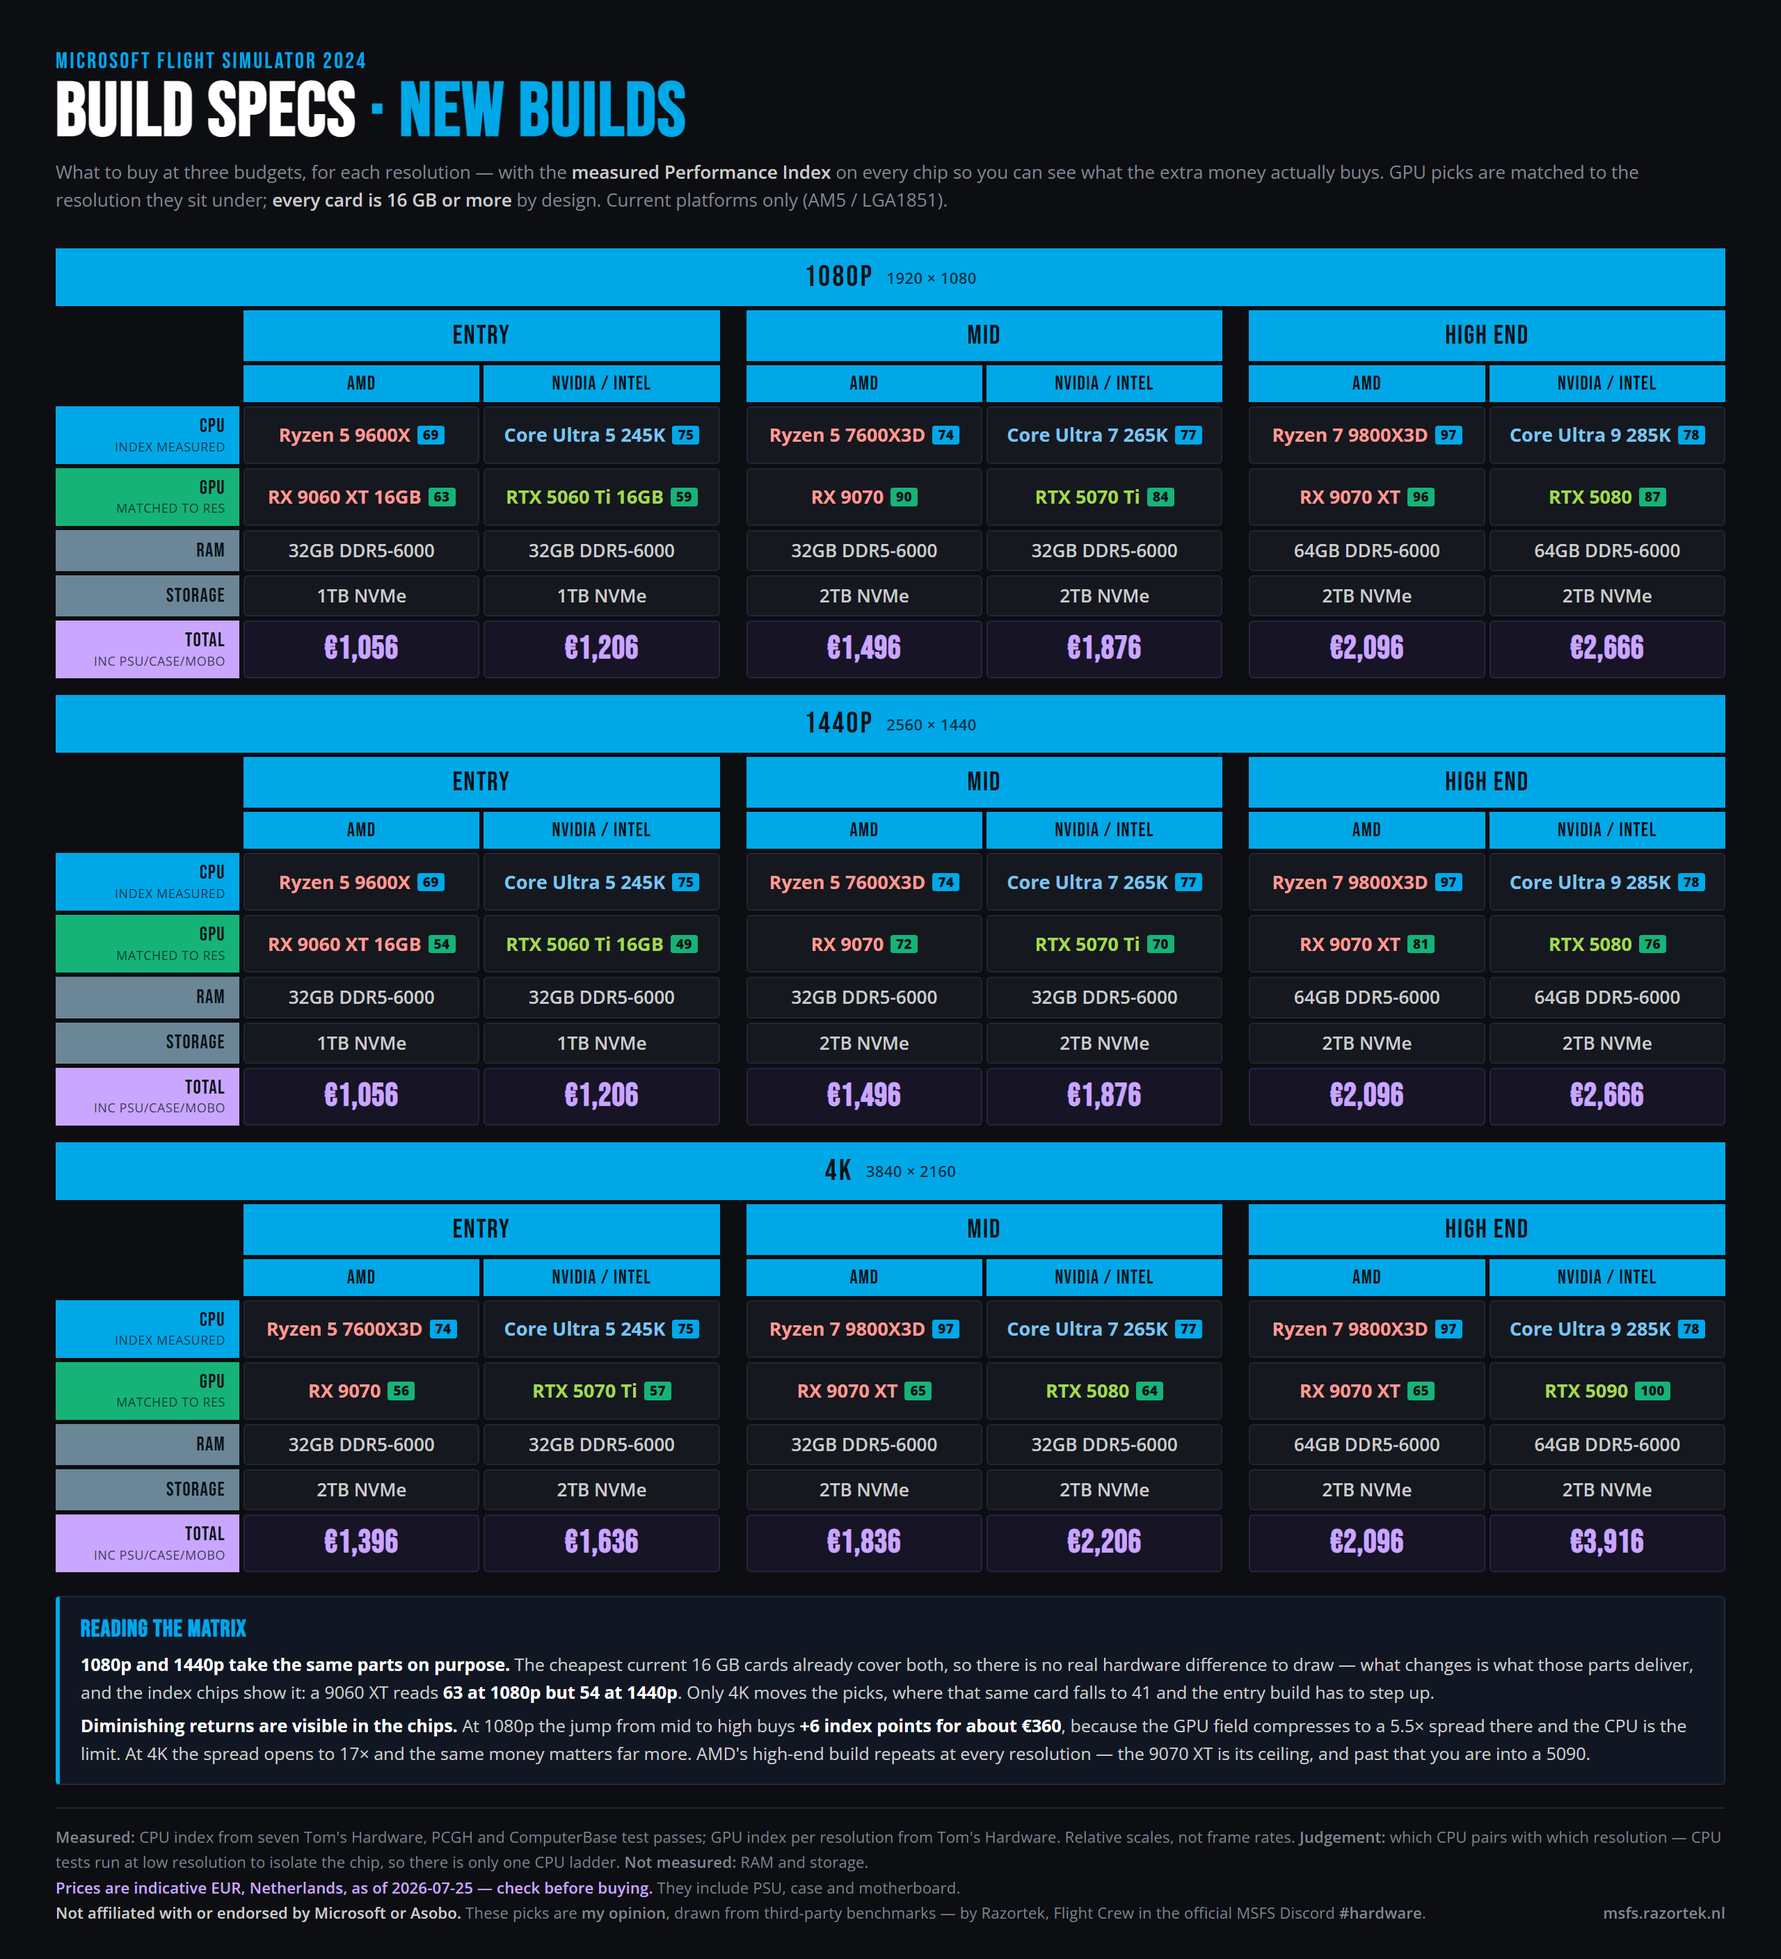
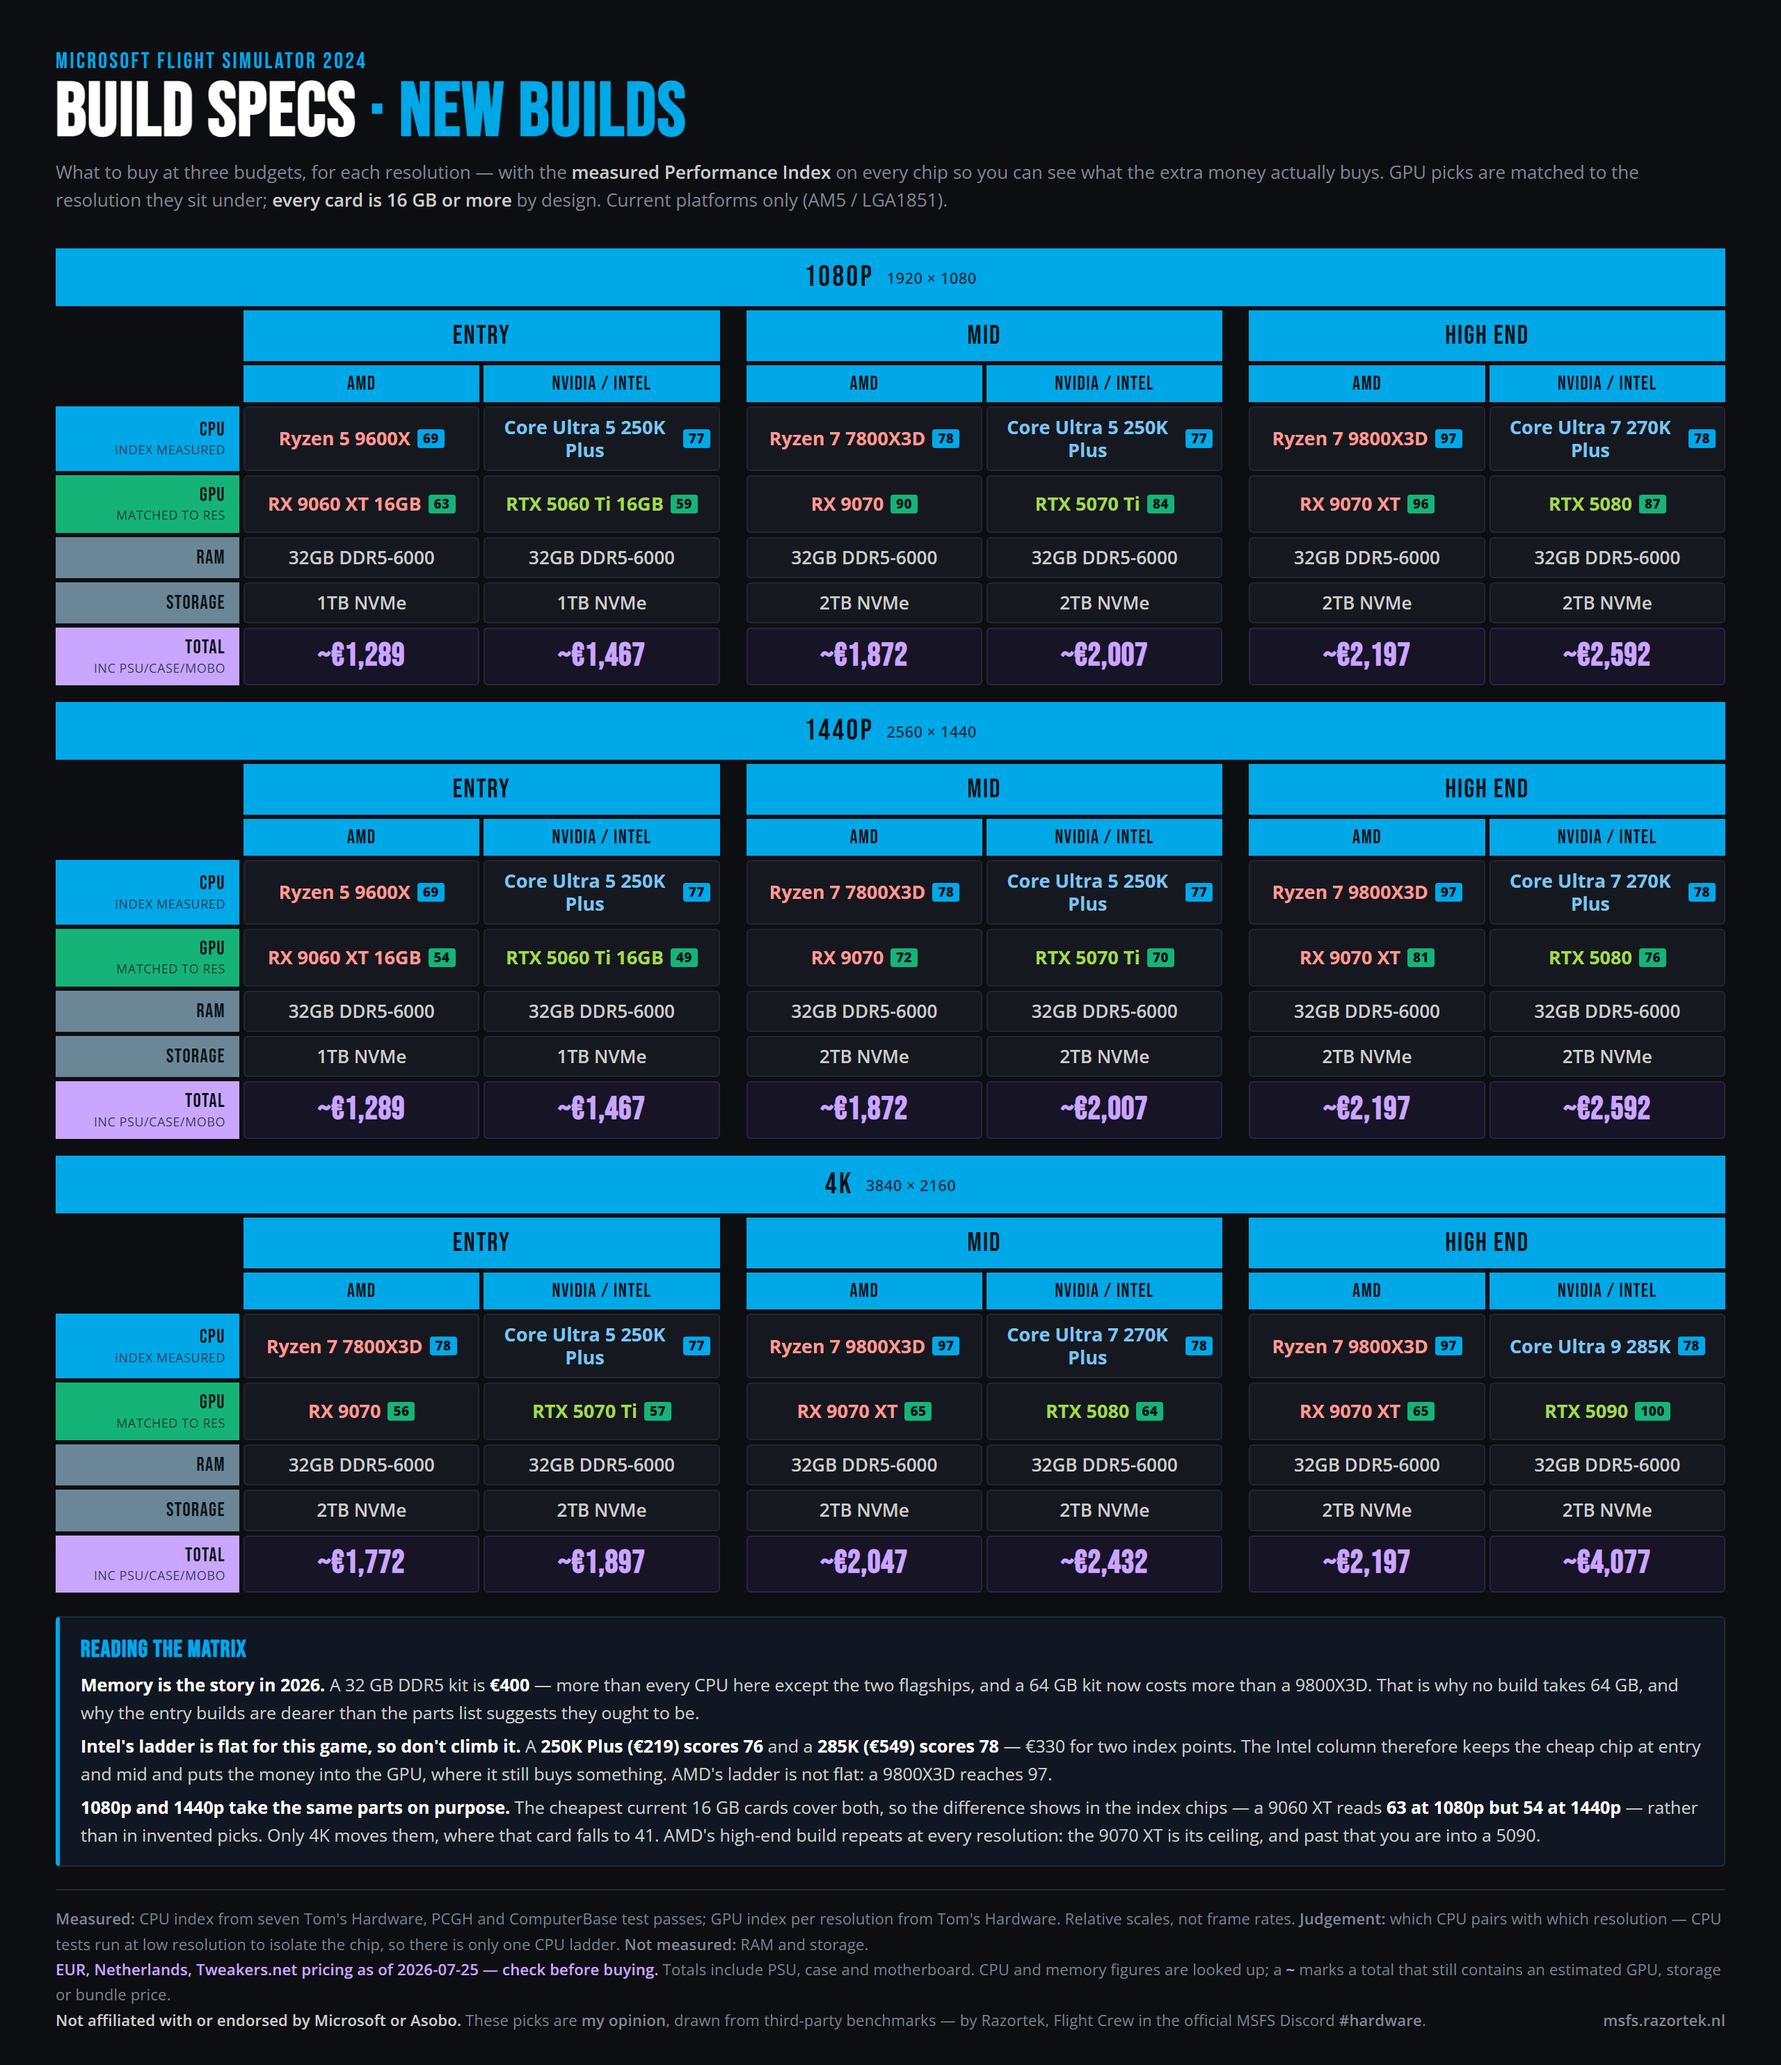
Use real Tweakers.net CPU and memory prices; re-pick around them
Replaces the estimated CPU and memory figures with looked-up EUR/NL prices
and marks provenance per part, so an estimate can no longer pass as a real
figure: build_prices.csv gains a src column, and any total still containing
a guessed GPU, storage or bundle price renders with a ~ prefix. GPUs,
storage and the PSU/case/mobo bundles are still estimates and now say so.

Two picks changed because the real prices invert the usual advice.

Intel's ladder turns out to be flat for this game: a 250K Plus at 219 EUR
scores 76 and a 285K at 549 scores 78, so 330 EUR buys two index points.
The Intel column now keeps the cheap chip at entry and mid and spends the
difference on the GPU, which is where it still does something. AMD's
ladder is not flat, so it climbs normally to a 9800X3D at 97.

A 7800X3D at 324 EUR is now both cheaper and faster than a 5800X3D at 358,
so the older part has no place in a new build.

Also drops 64 GB memory everywhere. At 400 EUR for 32 GB a 64 GB kit costs
more than a 9800X3D, which is not a sensible way to spend that money on
this game, and the callout now leads with the memory market rather than
treating RAM as a footnote.

Changed region(s): [[0.0312, 0.0312, 0.9688, 1.0]]

diff --git a/tierlist_card_build.html b/tierlist_card_build.html
@@ -116,16 +116,20 @@ h1 em{font-style:normal;color:var(--acc)}
 
   <div class="call">
     <h3>Reading the matrix</h3>
+    <p><b>Memory is the story in 2026.</b> A 32 GB DDR5 kit is <b>€400</b> — more than
+    every CPU here except the two flagships, and a 64 GB kit now costs more than a
+    9800X3D. That is why no build takes 64 GB, and why the entry builds are dearer than
+    the parts list suggests they ought to be.</p>
+    <p><b>Intel's ladder is flat for this game, so don't climb it.</b> A
+    <b>250K Plus (€219) scores 76</b> and a <b>285K (€549) scores 78</b> — €330 for two
+    index points. The Intel column therefore keeps the cheap chip at entry and mid and
+    puts the money into the GPU, where it still buys something. AMD's ladder is not flat:
+    a 9800X3D reaches 97.</p>
     <p><b>1080p and 1440p take the same parts on purpose.</b> The cheapest current 16 GB
-    cards already cover both, so there is no real hardware difference to draw — what
-    changes is what those parts deliver, and the index chips show it: a 9060 XT reads
-    <b>63 at 1080p but 54 at 1440p</b>. Only 4K moves the picks, where that same card
-    falls to 41 and the entry build has to step up.</p>
-    <p><b>Diminishing returns are visible in the chips.</b> At 1080p the jump from mid to
-    high buys <b>+6 index points for about €360</b>, because the GPU field compresses to a
-    5.5× spread there and the CPU is the limit. At 4K the spread opens to 17× and the same
-    money matters far more. AMD's high-end build repeats at every resolution — the
-    9070 XT is its ceiling, and past that you are into a 5090.</p>
+    cards cover both, so the difference shows in the index chips — a 9060 XT reads
+    <b>63 at 1080p but 54 at 1440p</b> — rather than in invented picks. Only 4K moves
+    them, where that card falls to 41. AMD's high-end build repeats at every resolution:
+    the 9070 XT is its ceiling, and past that you are into a 5090.</p>
   </div>
 
   <div class="foot">
@@ -134,8 +138,10 @@ h1 em{font-style:normal;color:var(--acc)}
     rates. <b>Judgement:</b> which CPU pairs with which resolution — CPU tests run at
     low resolution to isolate the chip, so there is only one CPU ladder.
     <b>Not measured:</b> RAM and storage.<br/>
-    <b class="price">Prices are indicative EUR, Netherlands, as of <span id="pon"></span> —
-    check before buying.</b> They include PSU, case and motherboard.<br/>
+    <b class="price">EUR, Netherlands, Tweakers.net pricing as of <span id="pon"></span> —
+    check before buying.</b> Totals include PSU, case and motherboard. CPU and memory
+    figures are looked up; a <b class="price">~</b> marks a total that still contains an
+    estimated GPU, storage or bundle price.<br/>
     <b class="dis">Not affiliated with or endorsed by Microsoft or Asobo.</b> These picks
     are <b>my opinion</b>, drawn from third-party benchmarks — by Razortek, Flight Crew
     in the official MSFS Discord <b>#hardware</b>.
@@ -149,44 +155,44 @@ const PRICED_ON = "2026-07-25";
 const BUILDS = {
 "1080p": {
   "entry": [
-    { v:"amd", cpu:"Ryzen 5 9600X", ci:69, gpu:"RX 9060 XT 16GB", gi:63, ram:"32GB DDR5-6000", sto:"1TB NVMe", eur:1056 },
-    { v:"nv", cpu:"Core Ultra 5 245K", ci:75, gpu:"RTX 5060 Ti 16GB", gi:59, ram:"32GB DDR5-6000", sto:"1TB NVMe", eur:1206 }
+    { v:"amd", cpu:"Ryzen 5 9600X", ci:69, gpu:"RX 9060 XT 16GB", gi:63, ram:"32GB DDR5-6000", sto:"1TB NVMe", eur:1289, approx:true },
+    { v:"nv", cpu:"Core Ultra 5 250K Plus", ci:77, gpu:"RTX 5060 Ti 16GB", gi:59, ram:"32GB DDR5-6000", sto:"1TB NVMe", eur:1467, approx:true }
   ],
   "mid": [
-    { v:"amd", cpu:"Ryzen 5 7600X3D", ci:74, gpu:"RX 9070", gi:90, ram:"32GB DDR5-6000", sto:"2TB NVMe", eur:1496 },
-    { v:"nv", cpu:"Core Ultra 7 265K", ci:77, gpu:"RTX 5070 Ti", gi:84, ram:"32GB DDR5-6000", sto:"2TB NVMe", eur:1876 }
+    { v:"amd", cpu:"Ryzen 7 7800X3D", ci:78, gpu:"RX 9070", gi:90, ram:"32GB DDR5-6000", sto:"2TB NVMe", eur:1872, approx:true },
+    { v:"nv", cpu:"Core Ultra 5 250K Plus", ci:77, gpu:"RTX 5070 Ti", gi:84, ram:"32GB DDR5-6000", sto:"2TB NVMe", eur:2007, approx:true }
   ],
   "high": [
-    { v:"amd", cpu:"Ryzen 7 9800X3D", ci:97, gpu:"RX 9070 XT", gi:96, ram:"64GB DDR5-6000", sto:"2TB NVMe", eur:2096 },
-    { v:"nv", cpu:"Core Ultra 9 285K", ci:78, gpu:"RTX 5080", gi:87, ram:"64GB DDR5-6000", sto:"2TB NVMe", eur:2666 }
+    { v:"amd", cpu:"Ryzen 7 9800X3D", ci:97, gpu:"RX 9070 XT", gi:96, ram:"32GB DDR5-6000", sto:"2TB NVMe", eur:2197, approx:true },
+    { v:"nv", cpu:"Core Ultra 7 270K Plus", ci:78, gpu:"RTX 5080", gi:87, ram:"32GB DDR5-6000", sto:"2TB NVMe", eur:2592, approx:true }
   ],
 },
 "1440p": {
   "entry": [
-    { v:"amd", cpu:"Ryzen 5 9600X", ci:69, gpu:"RX 9060 XT 16GB", gi:54, ram:"32GB DDR5-6000", sto:"1TB NVMe", eur:1056 },
-    { v:"nv", cpu:"Core Ultra 5 245K", ci:75, gpu:"RTX 5060 Ti 16GB", gi:49, ram:"32GB DDR5-6000", sto:"1TB NVMe", eur:1206 }
+    { v:"amd", cpu:"Ryzen 5 9600X", ci:69, gpu:"RX 9060 XT 16GB", gi:54, ram:"32GB DDR5-6000", sto:"1TB NVMe", eur:1289, approx:true },
+    { v:"nv", cpu:"Core Ultra 5 250K Plus", ci:77, gpu:"RTX 5060 Ti 16GB", gi:49, ram:"32GB DDR5-6000", sto:"1TB NVMe", eur:1467, approx:true }
   ],
   "mid": [
-    { v:"amd", cpu:"Ryzen 5 7600X3D", ci:74, gpu:"RX 9070", gi:72, ram:"32GB DDR5-6000", sto:"2TB NVMe", eur:1496 },
-    { v:"nv", cpu:"Core Ultra 7 265K", ci:77, gpu:"RTX 5070 Ti", gi:70, ram:"32GB DDR5-6000", sto:"2TB NVMe", eur:1876 }
+    { v:"amd", cpu:"Ryzen 7 7800X3D", ci:78, gpu:"RX 9070", gi:72, ram:"32GB DDR5-6000", sto:"2TB NVMe", eur:1872, approx:true },
+    { v:"nv", cpu:"Core Ultra 5 250K Plus", ci:77, gpu:"RTX 5070 Ti", gi:70, ram:"32GB DDR5-6000", sto:"2TB NVMe", eur:2007, approx:true }
   ],
   "high": [
-    { v:"amd", cpu:"Ryzen 7 9800X3D", ci:97, gpu:"RX 9070 XT", gi:81, ram:"64GB DDR5-6000", sto:"2TB NVMe", eur:2096 },
-    { v:"nv", cpu:"Core Ultra 9 285K", ci:78, gpu:"RTX 5080", gi:76, ram:"64GB DDR5-6000", sto:"2TB NVMe", eur:2666 }
+    { v:"amd", cpu:"Ryzen 7 9800X3D", ci:97, gpu:"RX 9070 XT", gi:81, ram:"32GB DDR5-6000", sto:"2TB NVMe", eur:2197, approx:true },
+    { v:"nv", cpu:"Core Ultra 7 270K Plus", ci:78, gpu:"RTX 5080", gi:76, ram:"32GB DDR5-6000", sto:"2TB NVMe", eur:2592, approx:true }
   ],
 },
 "4K": {
   "entry": [
-    { v:"amd", cpu:"Ryzen 5 7600X3D", ci:74, gpu:"RX 9070", gi:56, ram:"32GB DDR5-6000", sto:"2TB NVMe", eur:1396 },
-    { v:"nv", cpu:"Core Ultra 5 245K", ci:75, gpu:"RTX 5070 Ti", gi:57, ram:"32GB DDR5-6000", sto:"2TB NVMe", eur:1636 }
+    { v:"amd", cpu:"Ryzen 7 7800X3D", ci:78, gpu:"RX 9070", gi:56, ram:"32GB DDR5-6000", sto:"2TB NVMe", eur:1772, approx:true },
+    { v:"nv", cpu:"Core Ultra 5 250K Plus", ci:77, gpu:"RTX 5070 Ti", gi:57, ram:"32GB DDR5-6000", sto:"2TB NVMe", eur:1897, approx:true }
   ],
   "mid": [
-    { v:"amd", cpu:"Ryzen 7 9800X3D", ci:97, gpu:"RX 9070 XT", gi:65, ram:"32GB DDR5-6000", sto:"2TB NVMe", eur:1836 },
-    { v:"nv", cpu:"Core Ultra 7 265K", ci:77, gpu:"RTX 5080", gi:64, ram:"32GB DDR5-6000", sto:"2TB NVMe", eur:2206 }
+    { v:"amd", cpu:"Ryzen 7 9800X3D", ci:97, gpu:"RX 9070 XT", gi:65, ram:"32GB DDR5-6000", sto:"2TB NVMe", eur:2047, approx:true },
+    { v:"nv", cpu:"Core Ultra 7 270K Plus", ci:78, gpu:"RTX 5080", gi:64, ram:"32GB DDR5-6000", sto:"2TB NVMe", eur:2432, approx:true }
   ],
   "high": [
-    { v:"amd", cpu:"Ryzen 7 9800X3D", ci:97, gpu:"RX 9070 XT", gi:65, ram:"64GB DDR5-6000", sto:"2TB NVMe", eur:2096 },
-    { v:"nv", cpu:"Core Ultra 9 285K", ci:78, gpu:"RTX 5090", gi:100, ram:"64GB DDR5-6000", sto:"2TB NVMe", eur:3916 }
+    { v:"amd", cpu:"Ryzen 7 9800X3D", ci:97, gpu:"RX 9070 XT", gi:65, ram:"32GB DDR5-6000", sto:"2TB NVMe", eur:2197, approx:true },
+    { v:"nv", cpu:"Core Ultra 9 285K", ci:78, gpu:"RTX 5090", gi:100, ram:"32GB DDR5-6000", sto:"2TB NVMe", eur:4077, approx:true }
   ],
 },
 };
@@ -224,9 +230,10 @@ for (const [res, label] of RES) {
     TIERS.forEach(([tier], ti) => {
       for (const b of (BUILDS[res] || {})[tier] || []) {
         if (row.eur) {
+          // ~ marks a total that still contains an estimated component price
           h += b.eur === null
             ? `<div class="cell eur none num">—</div>`
-            : `<div class="cell eur num">€${b.eur.toLocaleString("en-US")}</div>`;
+            : `<div class="cell eur num">${b.approx ? "~" : ""}€${b.eur.toLocaleString("en-US")}</div>`;
         } else {
           const chip = row.chip && b[row.chip] !== null
             ? `<span class="ix${row.key === "gpu" ? " g" : ""}">${b[row.chip]}</span>` : ``;

diff --git a/make_build_table.py b/make_build_table.py
@@ -42,7 +42,9 @@ def read_csv(path):
 
 
 def load_prices():
-    prices, priced_on = {}, None
+    """-> ({part: eur}, {part: src}, priced_on). src distinguishes a real looked-up
+    figure from a placeholder, so a total built on guesses can be marked as one."""
+    prices, src, priced_on = {}, {}, None
     for row in read_csv(PRICES_CSV):
         part, val = row['part'].strip(), row['eur'].strip()
         if part == 'priced_on':
@@ -50,6 +52,7 @@ def load_prices():
             continue
         try:
             prices[part] = int(round(float(val)))
+            src[part] = (row.get('src') or '').strip() or 'est'
         except ValueError:
             warn('price for %r is not a number: %r' % (part, val))
     if not priced_on:
@@ -61,13 +64,17 @@ def load_prices():
                 warn('prices are %d days old (priced_on %s) — refresh them' % (age, priced_on))
         except ValueError:
             warn('priced_on is not an ISO date: %r' % priced_on)
-    return prices, priced_on
+    est = sorted(p for p, s in src.items() if s != 'tweakers')
+    if est:
+        warn('%d part(s) still on estimated prices, so their totals show a ~ prefix: %s'
+             % (len(est), ', '.join(est)))
+    return prices, src, priced_on
 
 
 def main():
     cpu_idx, prices_by_res = cpu_index(), {r: gpu_index(r) for r in RES}
     cpu_cov, gpu_cov = coverage('cpu'), coverage('gpu')
-    prices, priced_on = load_prices()
+    prices, price_src, priced_on = load_prices()
 
     builds = {}
     for row in read_csv(SPECS_CSV):
@@ -100,11 +107,13 @@ def main():
         for p in missing:
             warn('no price for %r (needed by %s/%s/%s)' % (p, res, tier, ven))
         total = None if missing else sum(prices[p] for p in parts)
+        # approximate if any component price is still a placeholder
+        approx = any(price_src.get(p, 'est') != 'tweakers' for p in parts if p in prices)
 
         builds[(res, tier, ven)] = {
             'cpu': cpu, 'ci': ci, 'cn': cpu_cov.get(cpu, 0),
             'gpu': gpu, 'gi': gi, 'gn': gpu_cov.get(gpu, 0),
-            'ram': ram, 'sto': sto, 'total': total,
+            'ram': ram, 'sto': sto, 'total': total, 'approx': approx,
         }
 
     for res in RES:
@@ -124,10 +133,12 @@ def main():
                 if not b:
                     continue
                 cells.append(
-                    '    { v:"%s", cpu:%s, ci:%s, gpu:%s, gi:%s, ram:%s, sto:%s, eur:%s }'
+                    '    { v:"%s", cpu:%s, ci:%s, gpu:%s, gi:%s, ram:%s, sto:%s,'
+                    ' eur:%s, approx:%s }'
                     % (ven, js_str(b['cpu']), fmt(b['ci']), js_str(b['gpu']),
                        fmt(b['gi']), js_str(b['ram']), js_str(b['sto']),
-                       'null' if b['total'] is None else b['total']))
+                       'null' if b['total'] is None else b['total'],
+                       'true' if b['approx'] else 'false'))
             js.append('  "%s": [\n%s\n  ],' % (tier, ',\n'.join(cells)))
         js.append('},')
     js.append('};')
